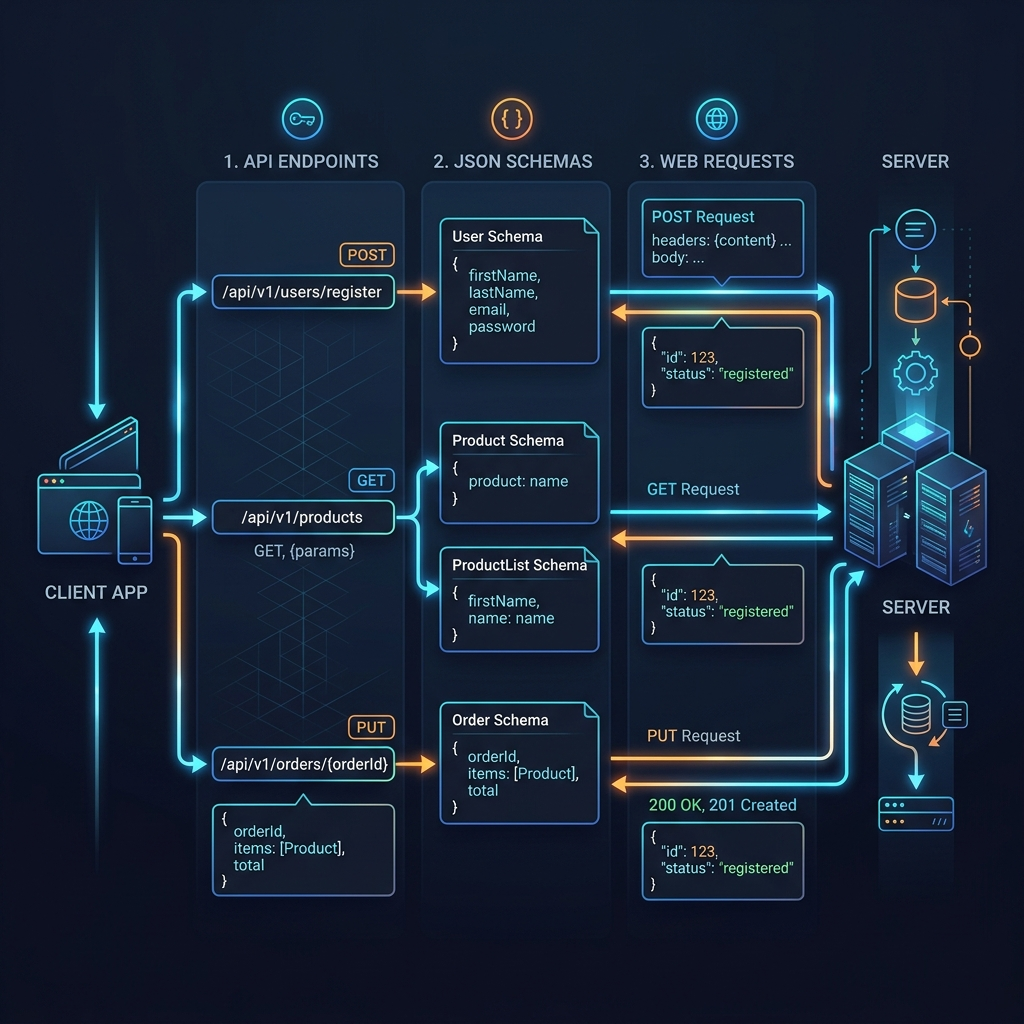
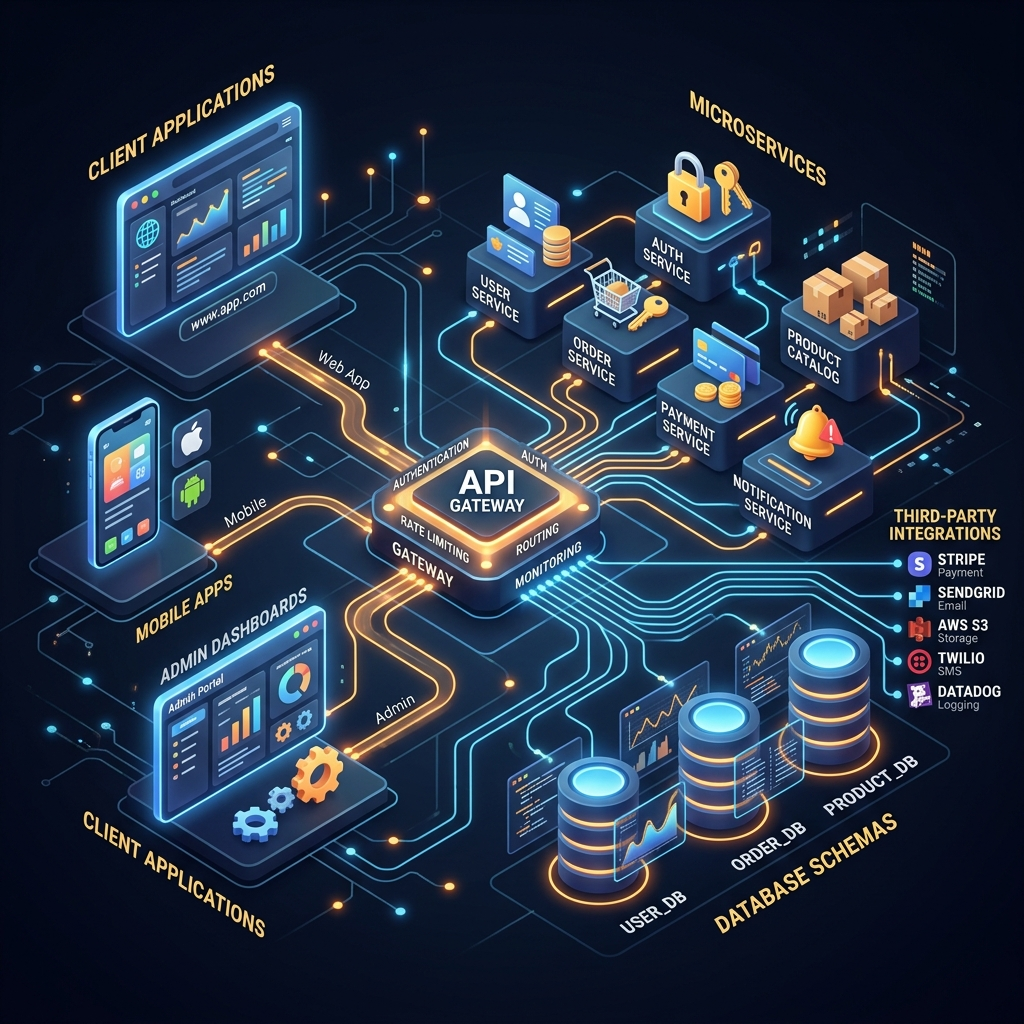
feat: generate and map 12 unique custom blog images to Nexyn Studios blog posts

diff --git a/lib/data/blog-posts.ts b/lib/data/blog-posts.ts
@@ -271,7 +271,7 @@ export const BLOG_POSTS: BlogPost[] = [
     category: "Business Automation",
     date: "Jun 02, 2026",
     readTime: "7 min read",
-    image: "/blog/how-to-build-a-business-crm.png",
+    image: "/blog/business-crm-development.png",
     featured: false,
     excerpt: "Avoid bloated systems with a custom CRM. Learn how to map sales stages, design user permissions, and connect communication channels.",
     internalLinks: [
@@ -307,7 +307,7 @@ export const BLOG_POSTS: BlogPost[] = [
     category: "E-commerce",
     date: "May 29, 2026",
     readTime: "8 min read",
-    image: "/blog/ecommerce-website-development-guide.png",
+    image: "/blog/ecommerce-development-guide.png",
     featured: false,
     excerpt: "Custom Next.js vs. Shopify: We compare these e-commerce solutions for load speed, page customization, transaction fees, and search ranking performance.",
     internalLinks: [
@@ -346,7 +346,7 @@ export const BLOG_POSTS: BlogPost[] = [
     category: "Business",
     date: "May 28, 2025",
     readTime: "7 min read",
-    image: "/blog/why-custom-crm-beats-off-the-shelf.png",
+    image: "/blog/custom-crm-vs-off-the-shelf.png",
     featured: false,
     excerpt: "Off-the-shelf CRMs come with bloated features you'll never use and lack the ones you actually need. Here's why building custom is the smarter long-term investment.",
     internalLinks: [
@@ -376,7 +376,7 @@ export const BLOG_POSTS: BlogPost[] = [
     category: "Engineering",
     date: "May 15, 2025",
     readTime: "9 min read",
-    image: "/blog/nextjs-vs-react-spa-for-enterprise.png",
+    image: "/blog/nextjs-vs-react-enterprise.png",
     featured: false,
     excerpt: "We break down the performance, SEO, and developer experience trade-offs between Next.js and traditional React SPAs for large-scale applications.",
     internalLinks: [
@@ -401,7 +401,7 @@ export const BLOG_POSTS: BlogPost[] = [
     category: "Design",
     date: "May 03, 2025",
     readTime: "6 min read",
-    image: "/blog/design-system-saves-development-time.png",
+    image: "/blog/design-system-development.png",
     featured: false,
     excerpt: "A well-structured design system isn't just for designers. Here's how it accelerates development, reduces bugs, and maintains consistency across products.",
     internalLinks: [
@@ -426,7 +426,7 @@ export const BLOG_POSTS: BlogPost[] = [
     category: "DevOps",
     date: "Apr 22, 2025",
     readTime: "11 min read",
-    image: "/blog/ci-cd-pipeline-guide-startups.png",
+    image: "/blog/ci-cd-pipeline-startups.png",
     featured: false,
     excerpt: "You don't need a DevOps team to set up reliable CI/CD. We walk through our battle-tested pipeline setup using GitHub Actions and Vercel.",
     internalLinks: [
@@ -451,7 +451,7 @@ export const BLOG_POSTS: BlogPost[] = [
     category: "Business",
     date: "Apr 10, 2025",
     readTime: "5 min read",
-    image: "/blog/business-automation-mistakes.png",
+    image: "/blog/business-automation-workflow.png",
     featured: false,
     excerpt: "Automation is powerful, but only when done right. We've seen these costly mistakes repeatedly and here's how to avoid them.",
     internalLinks: [
@@ -476,7 +476,7 @@ export const BLOG_POSTS: BlogPost[] = [
     category: "Design",
     date: "Mar 28, 2025",
     readTime: "8 min read",
-    image: "/blog/mobile-first-ux-principles.png",
+    image: "/blog/mobile-first-ux.png",
     featured: false,
     excerpt: "With over 70% of traffic coming from mobile, designing desktop-first is a recipe for failure. Here are the principles our design team lives by.",
     internalLinks: [
